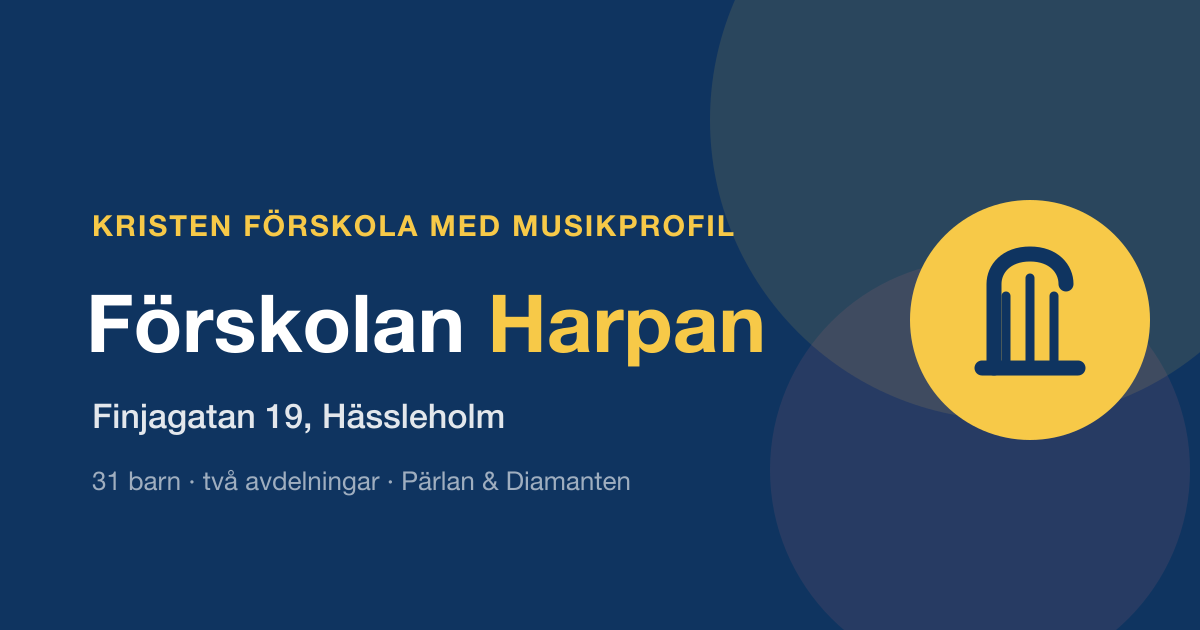
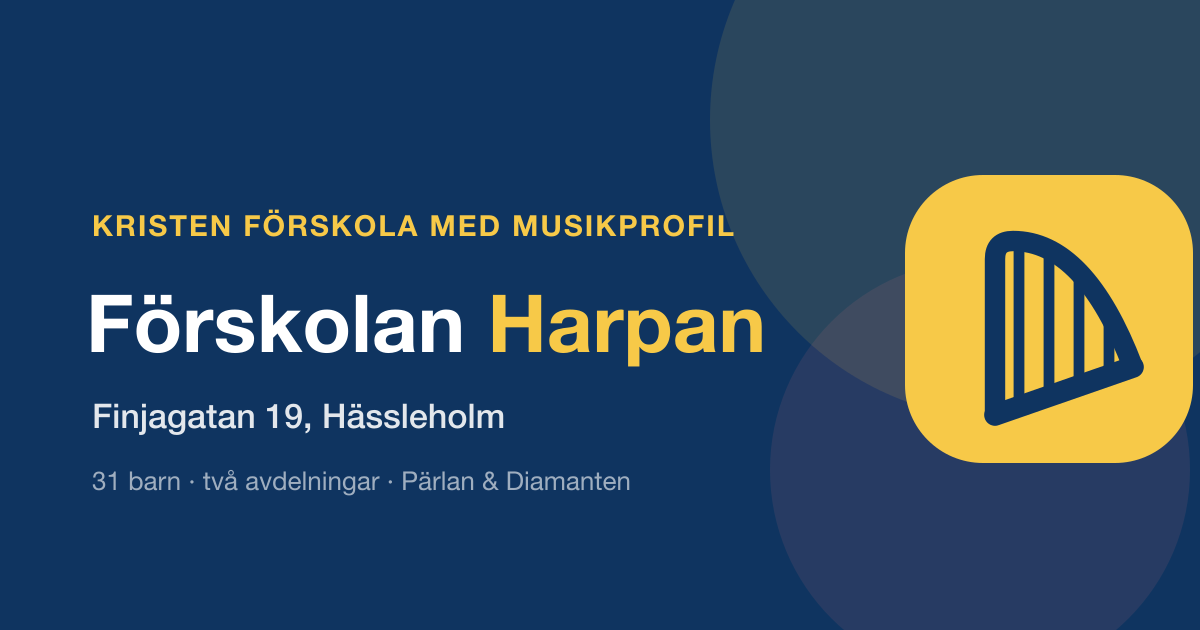
Adopt Fredoka brand font + refresh OG image to new emblem
- Switch display font Quicksand -> Fredoka (brand spec) site-wide via next/font;
  all headings + logo wording now match the new logo
- Regenerate OpenGraph/Twitter share image with the new harp icon emblem

Changed region(s): [[0.74, 0.2714, 1.0, 0.754]]

diff --git a/app/layout.tsx b/app/layout.tsx
@@ -1,10 +1,10 @@
 import type { Metadata, Viewport } from "next";
-import { Quicksand, DM_Sans } from "next/font/google";
+import { Fredoka, DM_Sans } from "next/font/google";
 import "./globals.css";
 import { Navbar } from "./components/Navbar";
 import { Footer } from "./components/Footer";
 
-const quicksand = Quicksand({
+const fredoka = Fredoka({
   subsets: ["latin"],
   weight: ["400", "500", "600", "700"],
   variable: "--font-display",
@@ -92,7 +92,7 @@ export default function RootLayout({
   children: React.ReactNode;
 }) {
   return (
-    <html lang="sv" className={`${quicksand.variable} ${dmSans.variable}`}>
+    <html lang="sv" className={`${fredoka.variable} ${dmSans.variable}`}>
       <body>
         <script
           type="application/ld+json"